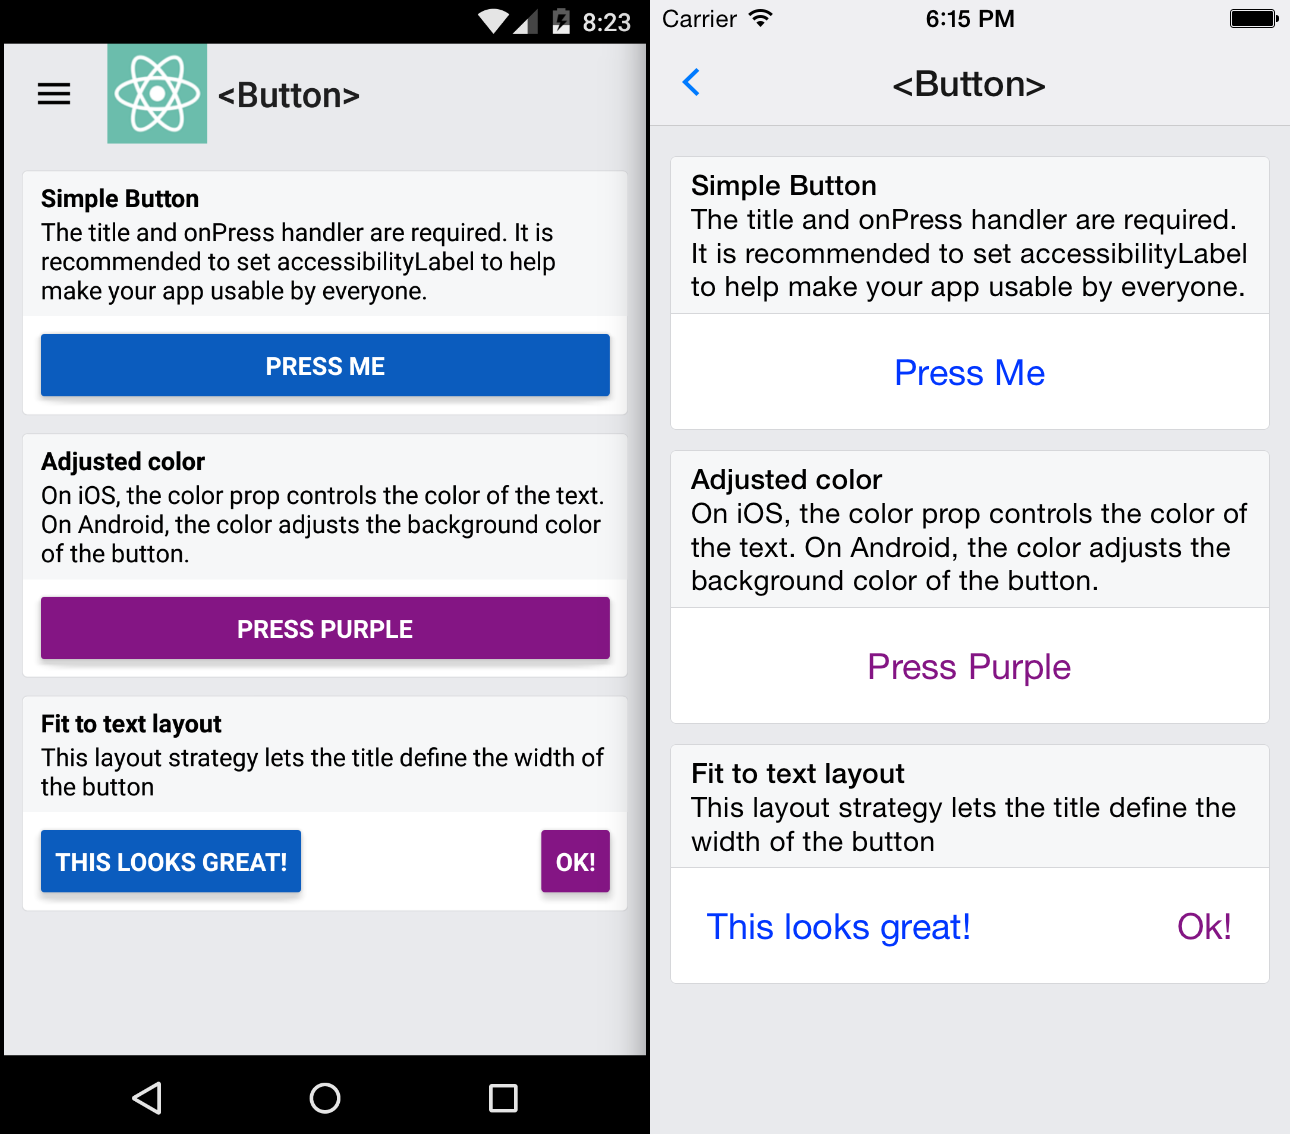
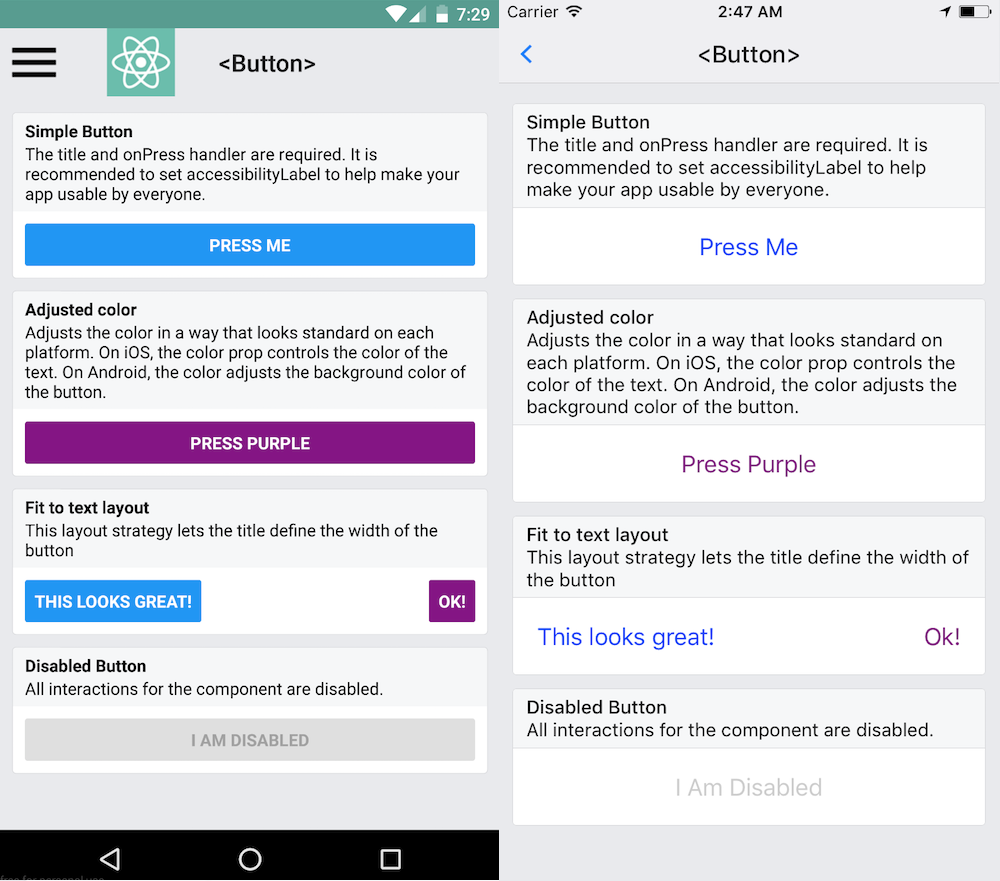
Add disabled prop
Summary:
Implemented feature requested in https://github.com/facebook/react-native/issues/10354, updated docs.
The colours were picked from native interface for iOS and from material-ui for android.
Closes https://github.com/facebook/react-native/pull/10398

Differential Revision: D4026189

Pulled By: ericvicenti

fbshipit-source-id: f3316e76f5a4126c07ffcdfb134cd902f40624d5

diff --git a/Libraries/Components/Button.js b/Libraries/Components/Button.js
@@ -54,6 +54,7 @@ class Button extends React.Component {
     onPress: () => any,
     color?: ?string,
     accessibilityLabel?: ?string,
+    disabled?: ?boolean,
   };
 
   static propTypes = {
@@ -70,6 +71,10 @@ class Button extends React.Component {
      */
     color: ColorPropType,
     /**
+     * If true, disable all interactions for this component.
+     */
+    disabled: React.PropTypes.bool,
+    /**
      * Handler to be called when the user taps the button
      */
     onPress: React.PropTypes.func.isRequired,
@@ -81,6 +86,7 @@ class Button extends React.Component {
       color,
       onPress,
       title,
+      disabled,
     } = this.props;
     const buttonStyles = [styles.button];
     const textStyles = [styles.text];
@@ -89,6 +95,10 @@ class Button extends React.Component {
       textStyles.push({color: color});
     } else if (color) {
       buttonStyles.push({backgroundColor: color});
+    }
+    if (disabled) {
+      buttonStyles.push(styles.buttonDisabled);
+      textStyles.push(styles.textDisabled);
     }
     invariant(
       typeof title === 'string',
@@ -100,6 +110,7 @@ class Button extends React.Component {
         accessibilityComponentType="button"
         accessibilityLabel={accessibilityLabel}
         accessibilityTraits={['button']}
+        disabled={disabled}
         onPress={onPress}>
         <View style={buttonStyles}>
           <Text style={textStyles}>{formattedTitle}</Text>
@@ -138,6 +149,21 @@ const styles = StyleSheet.create({
       padding: 8,
       fontWeight: '500',
     },
+  }),
+  buttonDisabled: Platform.select({
+    ios: {},
+    android: {
+      elevation: 0,
+      backgroundColor: '#dfdfdf',
+    }
+  }),
+  textDisabled: Platform.select({
+    ios: {
+      color: '#cdcdcd',
+    },
+    android: {
+      color: '#a1a1a1',
+    }
   }),
 });
 

diff --git a/Examples/UIExplorer/js/ButtonExample.js b/Examples/UIExplorer/js/ButtonExample.js
@@ -93,4 +93,18 @@ exports.examples = [
       );
     },
   },
+  {
+    title: 'Disabled Button',
+    description: 'All interactions for the component are disabled.',
+    render: function() {
+      return (
+        <Button
+          disabled
+          onPress={onButtonPress}
+          title="I Am Disabled"
+          accessibilityLabel="See an informative alert"
+        />
+      );
+    },
+  },
 ];
